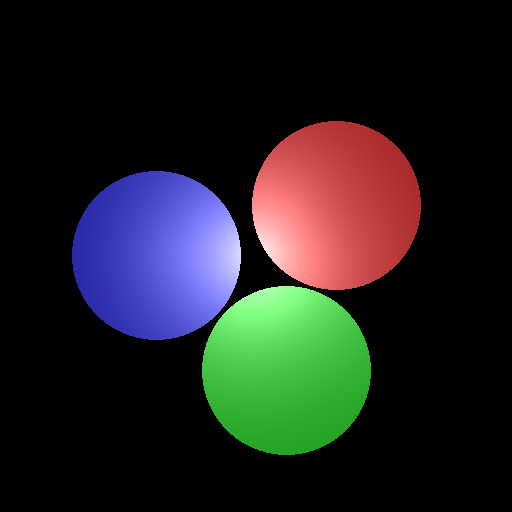
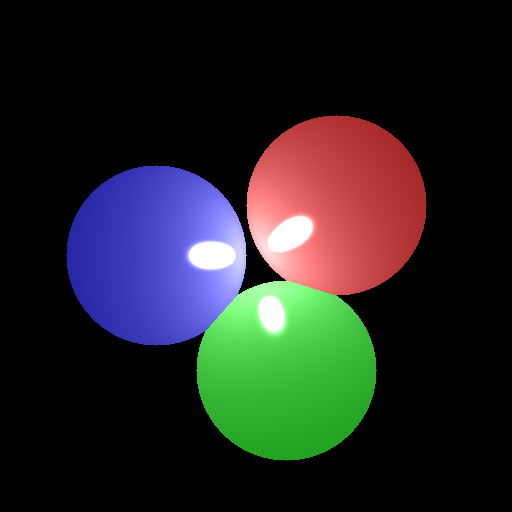
Some bugs sorted out. Better Phong model calculation

diff --git a/src/Raytracer.cpp b/src/Raytracer.cpp
@@ -24,7 +24,7 @@ void Raytracer::run()
         for(int width =- IMG_SIDE/2; width<IMG_SIDE/2; width++)
         {
             core::Point orgin(width, height, 0.0);
-            core::Vector direction(0.0,0.0,-1.0);
+            core::Vector direction(0.0,0.0, -1.0);
 
             core::Ray viewRay(orgin, direction);
 
@@ -41,7 +41,7 @@ core::Color Raytracer::trace(core::Ray& ray, int recursiveStep)
 {
     core::Color local = {0.0,0.0,0.0};
 
-    double distance = 1000000.0f;
+    double distance = 10000.0f;
 
     auto objects = scene_.getObjects();
 
@@ -79,9 +79,6 @@ core::Color Raytracer::trace(core::Ray& ray, int recursiveStep)
     auto lights = scene_.getLights();
     for(auto& light : lights)
     {
-        // core::Vector distance = light->getPosition() - collision;
-
-        // double t = sqrtf(distance.dotProduct(distance));
 
         // PHONG lighting model
         double a = 1.0;
@@ -89,7 +86,7 @@ core::Color Raytracer::trace(core::Ray& ray, int recursiveStep)
         double c = 0.0001;
 
         core::Vector V = ray.getDirection();    // observation vector
-        core::Vector L = light->getPosition() - collision; // light incidence vector
+        core::Vector L = collision - light->getPosition(); // light incidence vector
         V.normalize();
         L.normalize();
 
@@ -98,28 +95,29 @@ core::Color Raytracer::trace(core::Ray& ray, int recursiveStep)
         core::Vector R = L - (normal * (2.0 * dotNL));    //reflected vector
         R.normalize();
 
-        double dotVR = R.dotProduct(V) * 1.1; // angle betwen observation vector and reflected vector
+        double dotVR = R.dotProduct(V) * 1.0; // angle betwen observation vector and reflected vector
 
         if (dotVR < 0) dotVR = 0;
 
-        core::Vector difference = light->getPosition() - collision;
-        double di = sqrtf(difference.getX() * difference.getX() +
+        core::Vector difference = collision - light->getPosition();
+
+        double di = sqrtf(
+            difference.getX() * difference.getX() +
             difference.getY() * difference.getY() + 
             difference.getZ() * difference.getZ());
 
-        // * (Settings.Objects[closest_object]->material.diffuse * current.Light_params.diffuse * (dotNL) + Settings.Objects[closest_object]->material.specular * current.Light_params.specular * pow(dotVR,Settings.Objects[closest_object]->material.shine_factor));
 
-        double lightning_factor = 1.0/(a+ b*di + c*di*di);
-        local = local + closestObject->getMaterial().ambient + light->getColor() * lightning_factor;
-        // + closestObject->getMaterial().diffuse * light->getColor() * lightning_factor * dotNL
-        // + closestObject->getMaterial().specular * light->getColor() * pow(dotVR, 10);
-
-
+        double lightning_factor = 1.0 / (a + b*di + c*di*di);
+        local = local + closestObject->getMaterial().ambient + light->getColor() * lightning_factor
+        //+ closestObject->getMaterial().diffuse * light->getColor()  * dotNL * 0.004
+        + closestObject->getMaterial().specular * light->getColor() * pow(dotVR, 50);
+        ;
     }
 
-    if (local.red >= 255) local.red = 255;
+    if (local.red >= 255.0) local.red = 255;
     if (local.green >= 255) local.green = 255;
     if (local.blue >= 255) local.blue = 255;
+
 
     return local;
 }

diff --git a/src/core/Vector.cpp b/src/core/Vector.cpp
@@ -1,8 +1,7 @@
 #include "Vector.hpp"
 
 #include <cmath>
-
-#include <iostream>
+#include <string>
 
 namespace rt
 {
@@ -33,11 +32,7 @@ void Vector::normalize()
 
 bool Vector::isZero()
 {
-    if ((0 == x_) && (0 == y_) && (0 == z_))
-    {
-        return true;
-    }
-    return false;
+    return ((0 == x_) && (0 == y_) && (0 == z_));
 }
 
 Vector Vector::operator+(const Point& p)
@@ -48,11 +43,6 @@ Vector Vector::operator+(const Point& p)
 Vector Vector::operator*(const double& scale)
 {
     return Vector(x_ * scale, y_ * scale, z_ * scale);
-}
-
-Vector Vector::operator=(const Point& p)
-{
-    return Vector(p.getX(),p.getY(),p.getZ());;
 }
 
 }  // namespace core

diff --git a/src/core/Vector.hpp b/src/core/Vector.hpp
@@ -17,7 +17,7 @@ public:
     { };
     Vector(const Point& p) : Point(p)
     { };
-    Vector(const Vector& v) : Point(x_,y_,z_)
+    Vector(const Vector& v) : Point(v.x_,v.y_,v.z_)
     { };
 
     Vector crossProduct(const Vector& v);
@@ -27,7 +27,6 @@ public:
 
     Vector operator+(const Point& p);
     Vector operator*(const double& scale);
-    Vector operator=(const Point& p);
 };
 
 }  // namespace core

diff --git a/src/core/Point.cpp b/src/core/Point.cpp
@@ -55,5 +55,13 @@ std::ostream& operator<< (std::ostream& s, Point p)
     return s << "[" << p.getX() << ", " << p.getY() << ", " << p.getZ() << "]";
 }
 
+std::string Point::toString() const
+{
+    return std::string("["
+        + std::to_string(x_) + ","
+        + std::to_string(y_) + ","
+        + std::to_string(z_) + "]");
+}
+
 }  // namespace core
 }  // namespace rt 

diff --git a/src/shape/Sphere.cpp b/src/shape/Sphere.cpp
@@ -22,8 +22,7 @@ double Sphere::getRadius()
 
 core::Vector Sphere::getNormalAt(core::Point& p)
 {
-    core::Vector normal;
-    normal = p - getPosition();
+    core::Vector normal (core::Vector(p) - core::Vector(getPosition()));
     normal.normalize();
     return normal;
 }

diff --git a/src/core/Point.hpp b/src/core/Point.hpp
@@ -31,6 +31,8 @@ public:
     Point operator - (const Point& p);
     double operator * (const Point& p);
 
+    std::string toString() const;
+
 protected:
     double x_;
     double y_;
